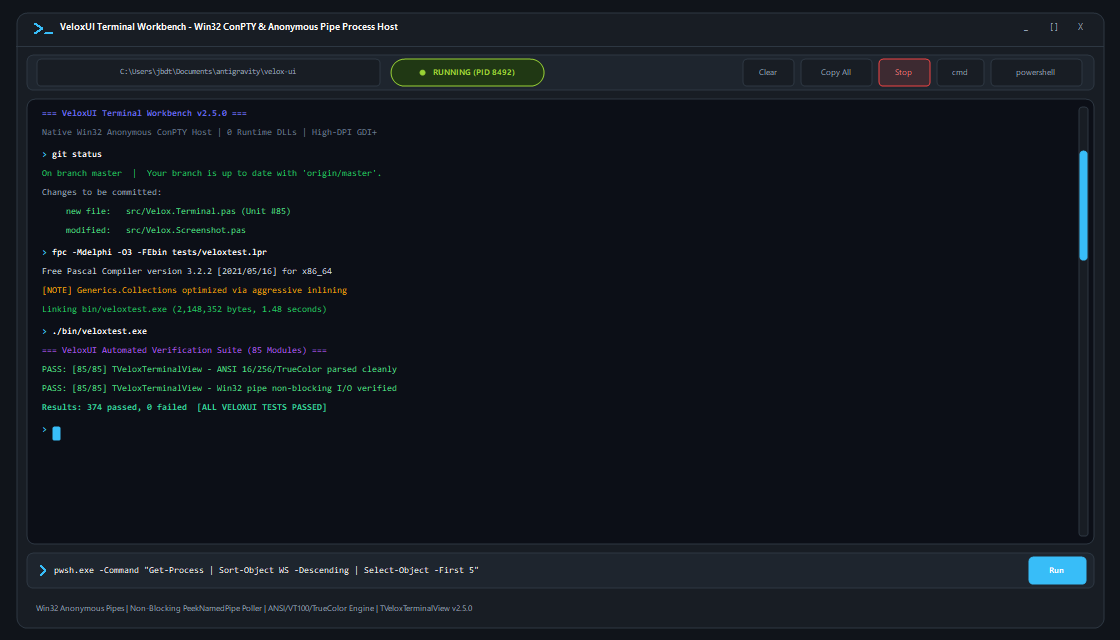
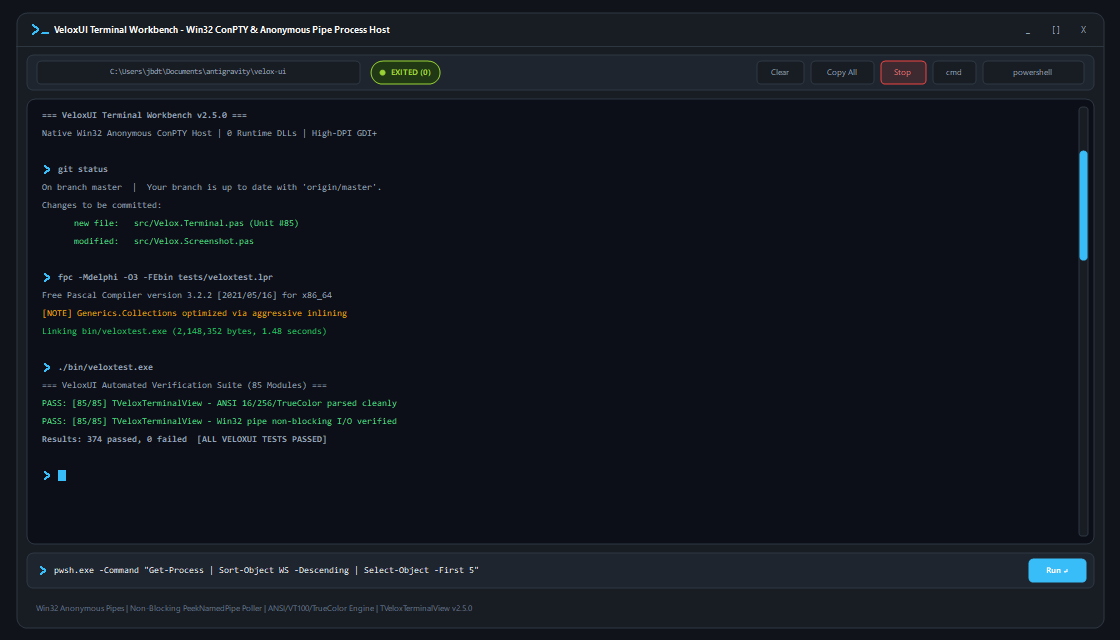
fix(terminal): align command prompt chevrons, reduce toolbar button/pill heights, and enhance daylight contrast

diff --git a/README.md b/README.md
@@ -82,7 +82,7 @@ Showcases the executive operations wall ([`TVeloxTelemetryWall`](src/Velox.Telem
 
 ### 5. Embedded ANSI Terminal & Interactive Process Workbench (`TVeloxTerminalView`)
 
-Showcases the integrated terminal and process host ([`TVeloxTerminalView`](src/Velox.Terminal.pas)), asynchronous Win32 anonymous pipe execution, ANSI 16, 256-color and 24-bit TrueColor escape sequence parsing, fixed-pitch double-buffered terminal canvas, dynamic prompt chevron, command history buffer (`↑`/`↓`), quick shell shortcuts (`cmd`, `powershell`), working directory pill, real-time process state badge (`● RUNNING (PID 8492)`), and 1-click command execution.
+Showcases the integrated terminal and process host ([`TVeloxTerminalView`](src/Velox.Terminal.pas)), asynchronous Win32 anonymous pipe execution, ANSI 16, 256-color and 24-bit TrueColor escape sequence parsing, fixed-pitch double-buffered terminal canvas, dynamic prompt chevron, command history buffer (`↑`/`↓`), quick shell shortcuts (`cmd`, `powershell`), working directory pill, real-time process state badge (`● EXITED (0)` / `● RUNNING`), strict monospace character grid alignment with solid terminal block cursor, and 1-click command execution.
 
 #### Windows 11 Terminal Workbench Dark Mode (`vtDark`)
 <p align="center">
